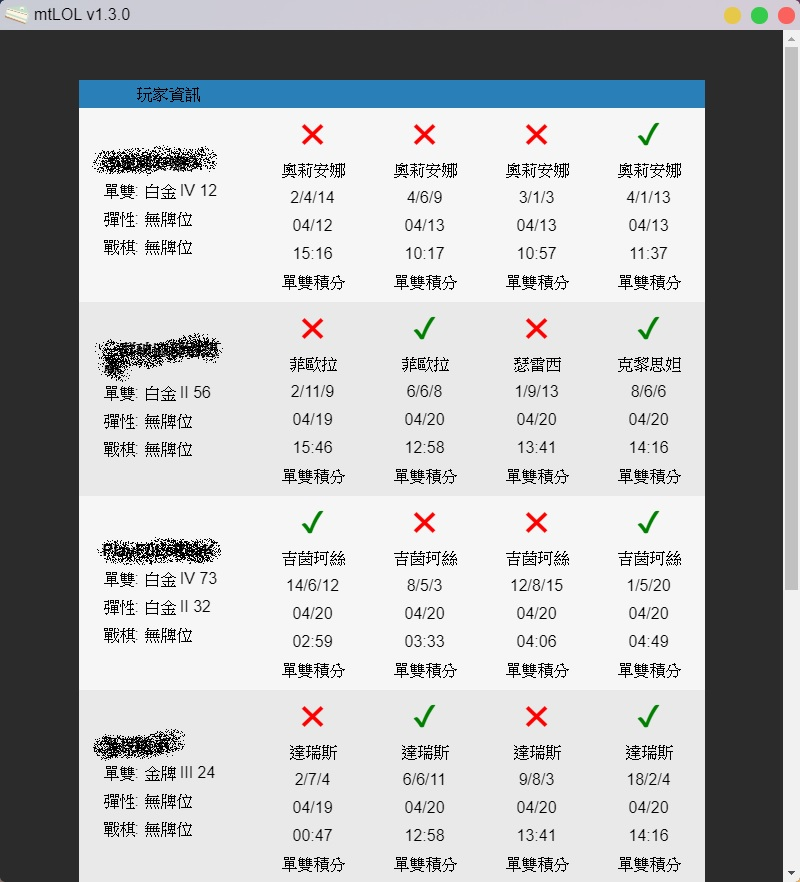
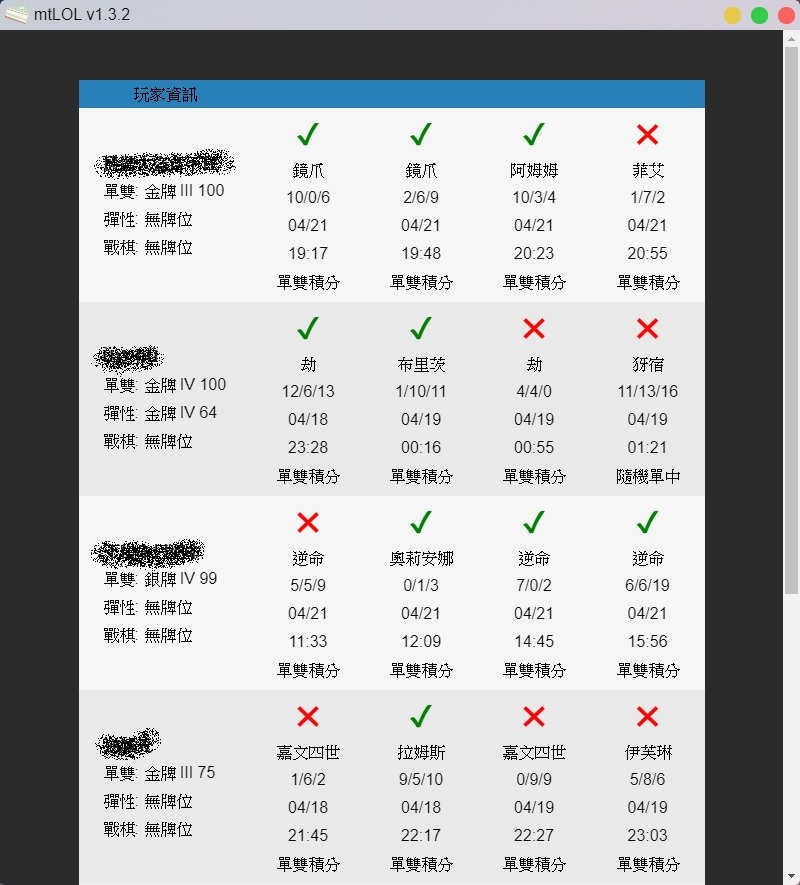
change gameflow to websocket

diff --git a/src/renderer/App.vue b/src/renderer/App.vue
@@ -13,15 +13,15 @@
       <div class="status">
         <p class="text--white">{{ status }}</p>
       </div>
+      <!-- <button @click="openDev">偵錯</button> -->
     </div>
-      <!--button-- @click="openDev">偵錯</!--button-->
   </div>
 </template>
 
 <script>
   import AppTitleBar from './components/AppTitleBar/AppTitleBar'
   import AppTable from './components/AppTable/AppTable'
-  import { auth, request } from 'league-connect'
+  import { auth, request, connect } from 'league-connect'
   const axios = require('axios')
   export default {
     name: 'mt-lol',
@@ -38,7 +38,6 @@
         this.status = '檢查權限完成'
         const champion = await axios.get('static/champion.json')
         this.championList = await champion.data.data
-        console.log(this.proxy)
         await this.connectLOLLoop()
       } else {
         this.status = '執行失敗!請使用系統管理員權限重新執行'
@@ -89,18 +88,14 @@
         }
       },
       async checkGameFlow () {
-        try {
-          const response = await request({
-            url: '/lol-gameflow/v1/gameflow-phase',
-            method: 'GET'
-          }, this.credentials)
-          this.gameFlow = await response.json()
-          await this.sleep(500)
-          this.checkGameFlow()
-        } catch (err) {
+        const websocket = await connect(this.credentials)
+        websocket.subscribe('/lol-gameflow/v1/gameflow-phase', (data, event) => {
+          this.gameFlow = data
+        })
+        websocket.on('close', () => {
           this.status = '已關閉遊戲，重新偵測中'
           this.connectLOLLoop()
-        }
+        })
       },
       async getTeamList () {
         this.status = '查詢戰績中...'
@@ -277,9 +272,13 @@
     }
     & label {
       cursor: pointer;
+      display: flex;
+      align-items: center
     }
     &__text {
       display: inline-block;
+      line-height: .19rem;
+      margin-left: .1rem;
     }
   }
   .icon--checkbox {

diff --git a/src/renderer/components/AppTitleBar/AppTitleBar.vue b/src/renderer/components/AppTitleBar/AppTitleBar.vue
@@ -2,7 +2,7 @@
 <div class="titlebar">
   <div class="titlebar__info">
     <img src="static/icons.svg" alt="">
-    <p>mtLOL v1.3.1</p>
+    <p>mtLOL v1.3.2</p>
   </div>
   <div class="titlebar__control">
     <div class="titlebar__control--btn" id="titlebar__control--min" @click="controlWindow('min')"></div> 

diff --git a/README.md b/README.md
@@ -1,7 +1,7 @@
 
 # :trophy: mtLOL 英雄聯盟積分戰績輔助工具
 
-下載點1.3.1：https://drive.google.com/file/d/1CoPHYTryU0A6BbYuAXQrwb-zJkiqtkGS/view?usp=sharing
+下載點1.3.2：https://drive.google.com/file/d/1oorazOHgL90bNnwQDuLwVL89p39C8rGb/view?usp=sharing
 
 一款英雄聯盟單雙排積分查詢輔助工具，只需開著程式當配對成功進入聊天室即可自動查詢戰績
 
